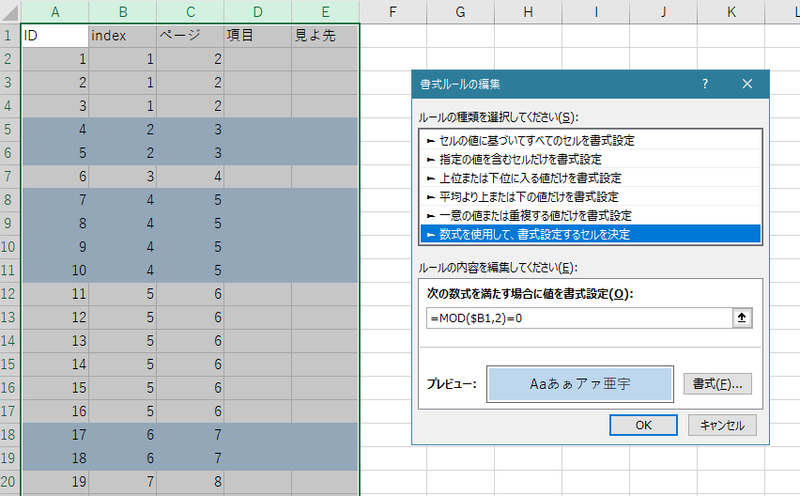
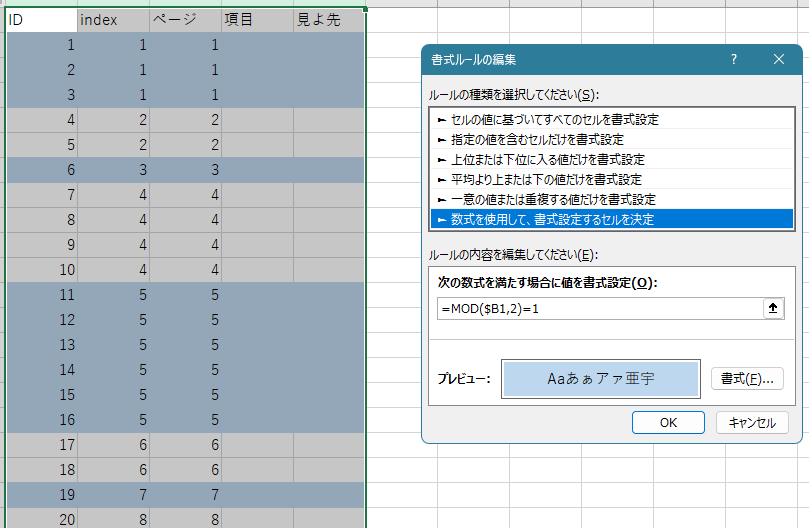
update sample image

diff --git a/src/components/Pickup/ExcelSetting.vue b/src/components/Pickup/ExcelSetting.vue
@@ -5,7 +5,7 @@
     <p><code>index</code>列に条件付き書式で<code>偶数の場合に背景色変更</code>という設定をするとページの変わり目が見やすくなり便利です。</p>
     <ul>
       <li>ルールの種類：<code>数式を使用して、書式設定するセルを決定</code></li>
-      <li>数式：<code>=MOD($B1,2)=0</code></li>
+      <li>数式：<code class="excel-func">=MOD($B1,2)=1</code></li>
     </ul>
     <img src="@/assets/Pickup/generate-index-rule.png" />
   </details>
@@ -17,3 +17,9 @@ export default {
   name: "ExcelSetting",
 };
 </script>
+
+<style scoped>
+  code.excel-func {
+    background: white;
+  }
+</style>
